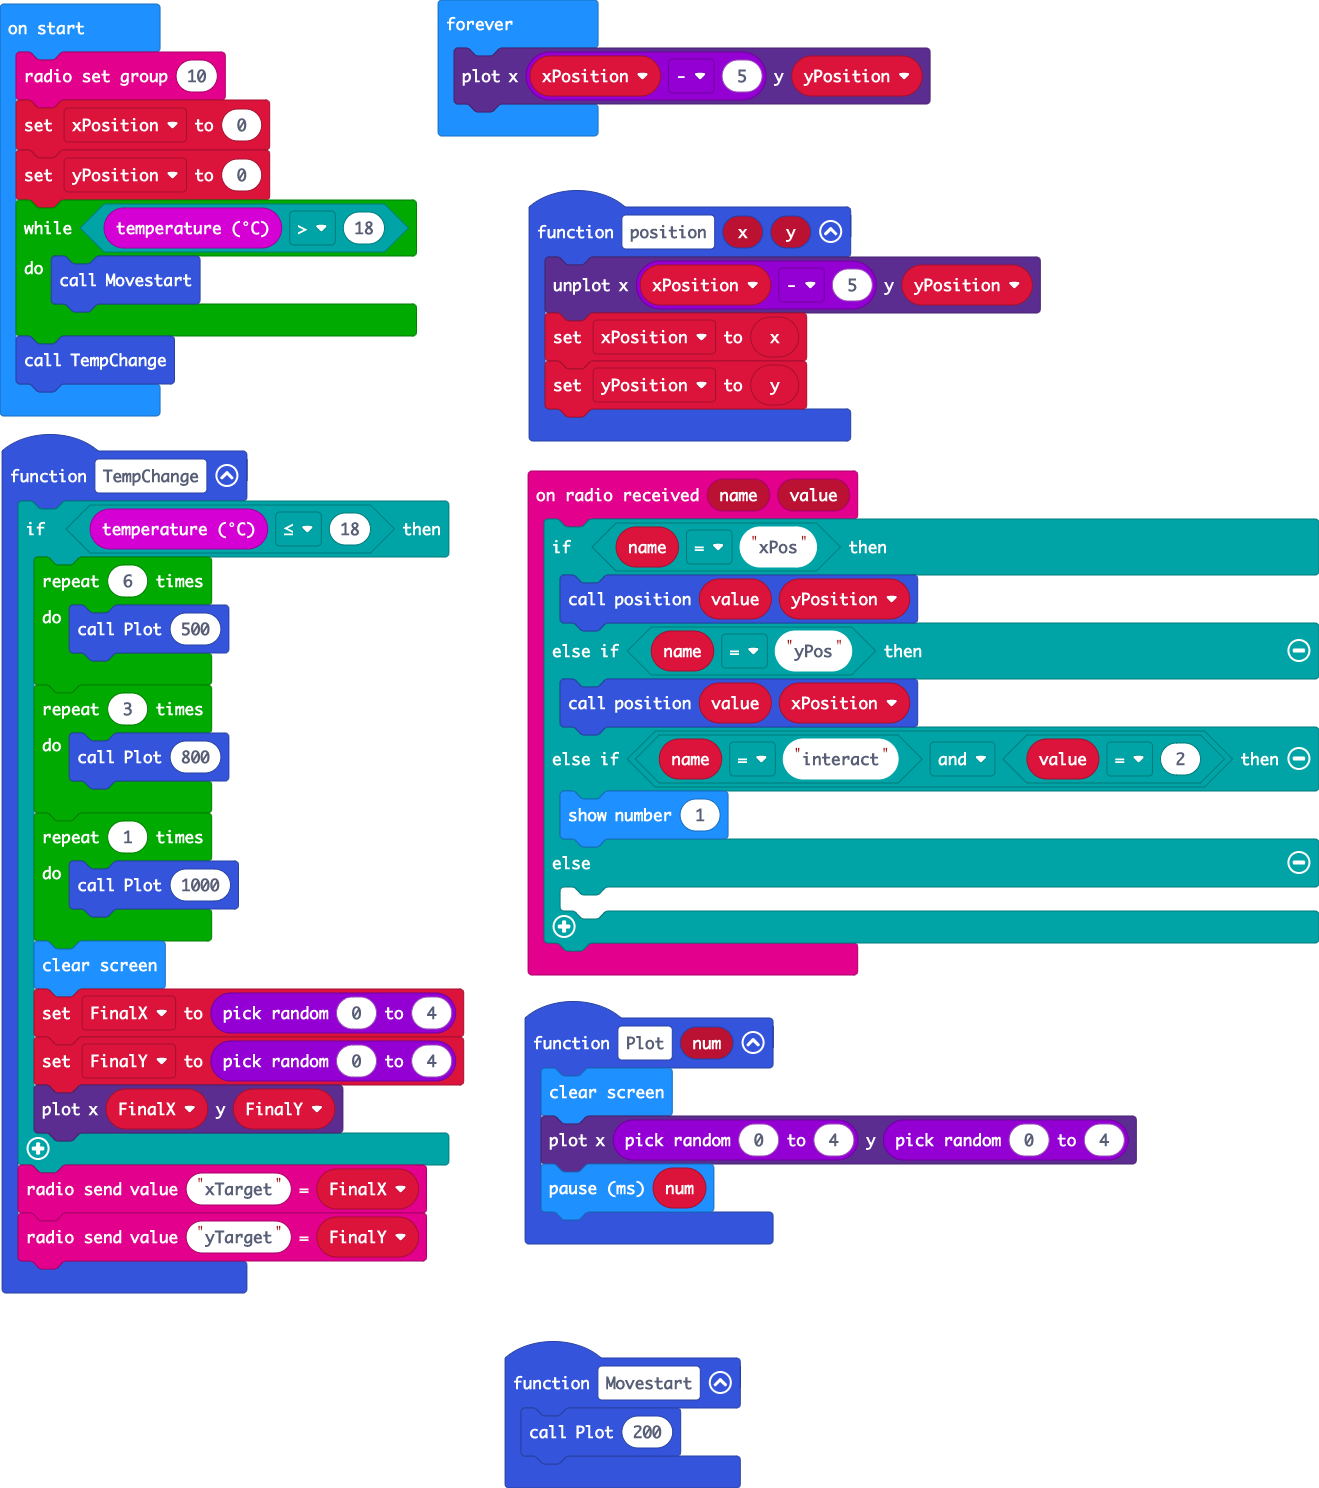
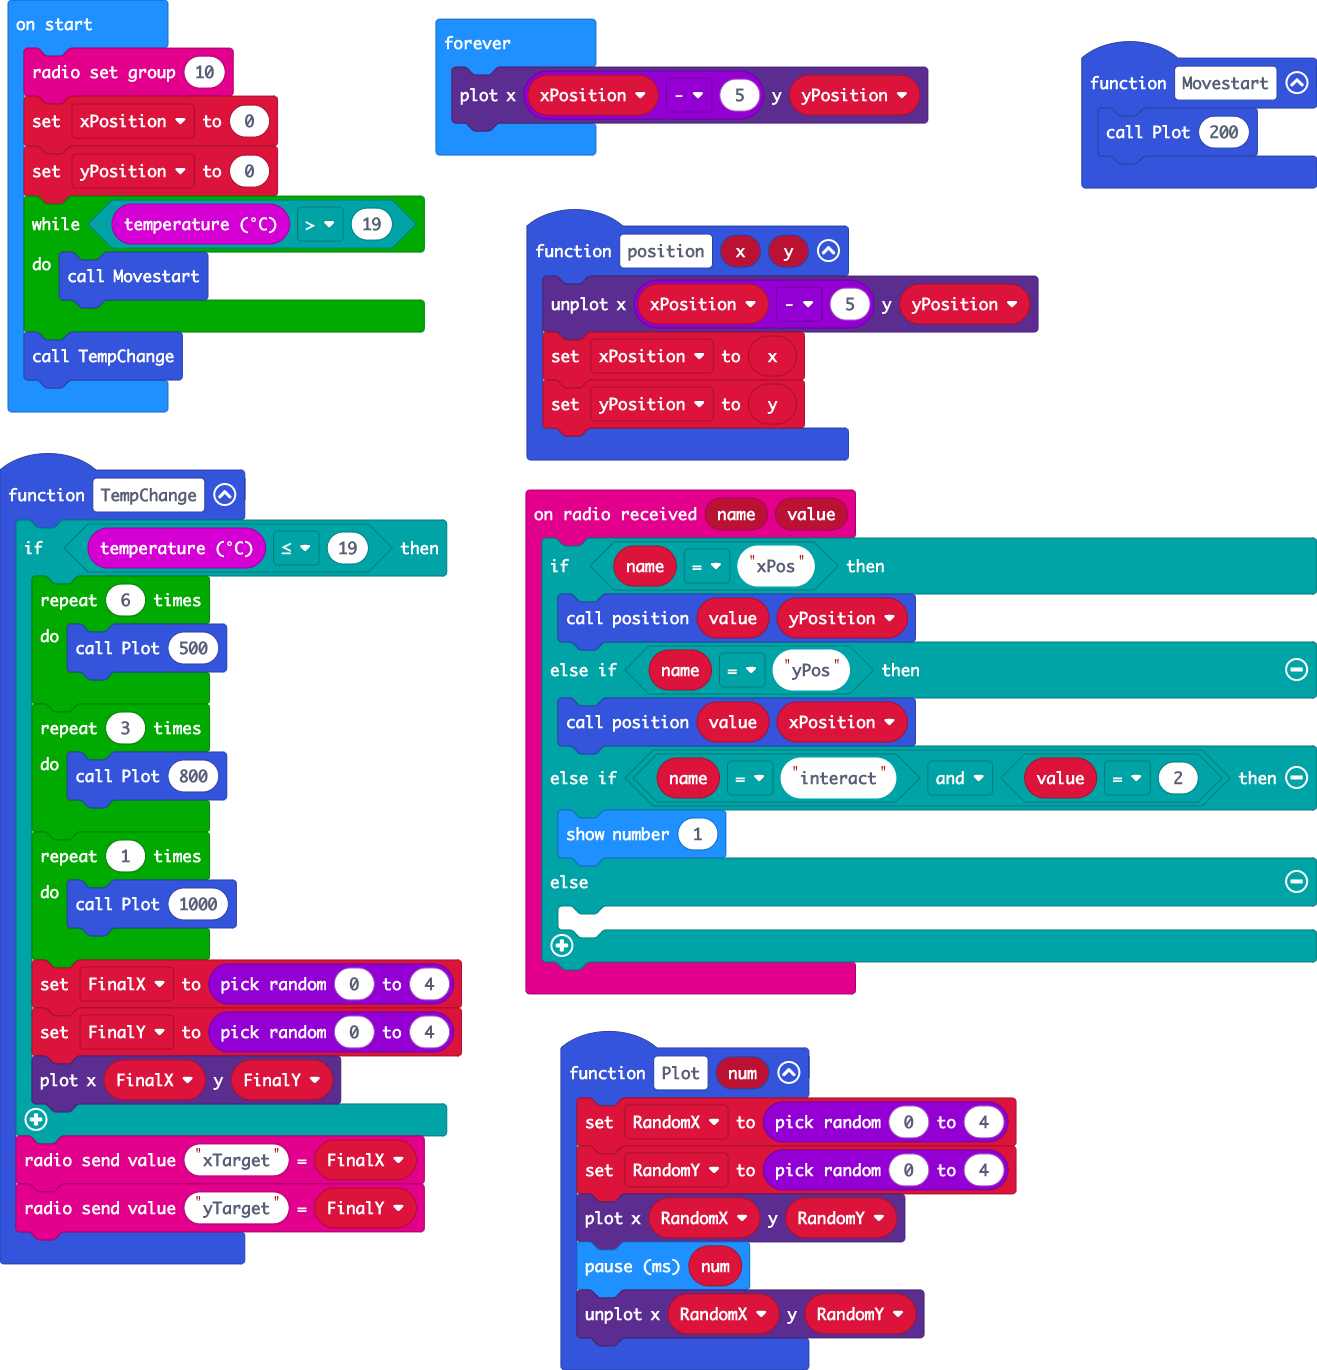
Update main.blocks, main.ts

diff --git a/main.ts b/main.ts
@@ -4,7 +4,7 @@ function position (x: number, y: number) {
     yPosition = y
 }
 function TempChange () {
-    if (input.temperature() <= 18) {
+    if (input.temperature() <= 19) {
         for (let index = 0; index < 6; index++) {
             Plot(500)
         }
@@ -14,7 +14,6 @@ function TempChange () {
         for (let index = 0; index < 1; index++) {
             Plot(1000)
         }
-        basic.clearScreen()
         FinalX = randint(0, 4)
         FinalY = randint(0, 4)
         led.plot(FinalX, FinalY)
@@ -37,10 +36,14 @@ function Movestart () {
     Plot(200)
 }
 function Plot (num: number) {
-    basic.clearScreen()
-    led.plot(randint(0, 4), randint(0, 4))
+    RandomX = randint(0, 4)
+    RandomY = randint(0, 4)
+    led.plot(RandomX, RandomY)
     basic.pause(num)
+    led.unplot(RandomX, RandomY)
 }
+let RandomY = 0
+let RandomX = 0
 let FinalY = 0
 let FinalX = 0
 let yPosition = 0
@@ -48,7 +51,7 @@ let xPosition = 0
 radio.setGroup(10)
 xPosition = 0
 yPosition = 0
-while (input.temperature() > 18) {
+while (input.temperature() > 19) {
     Movestart()
 }
 TempChange()
